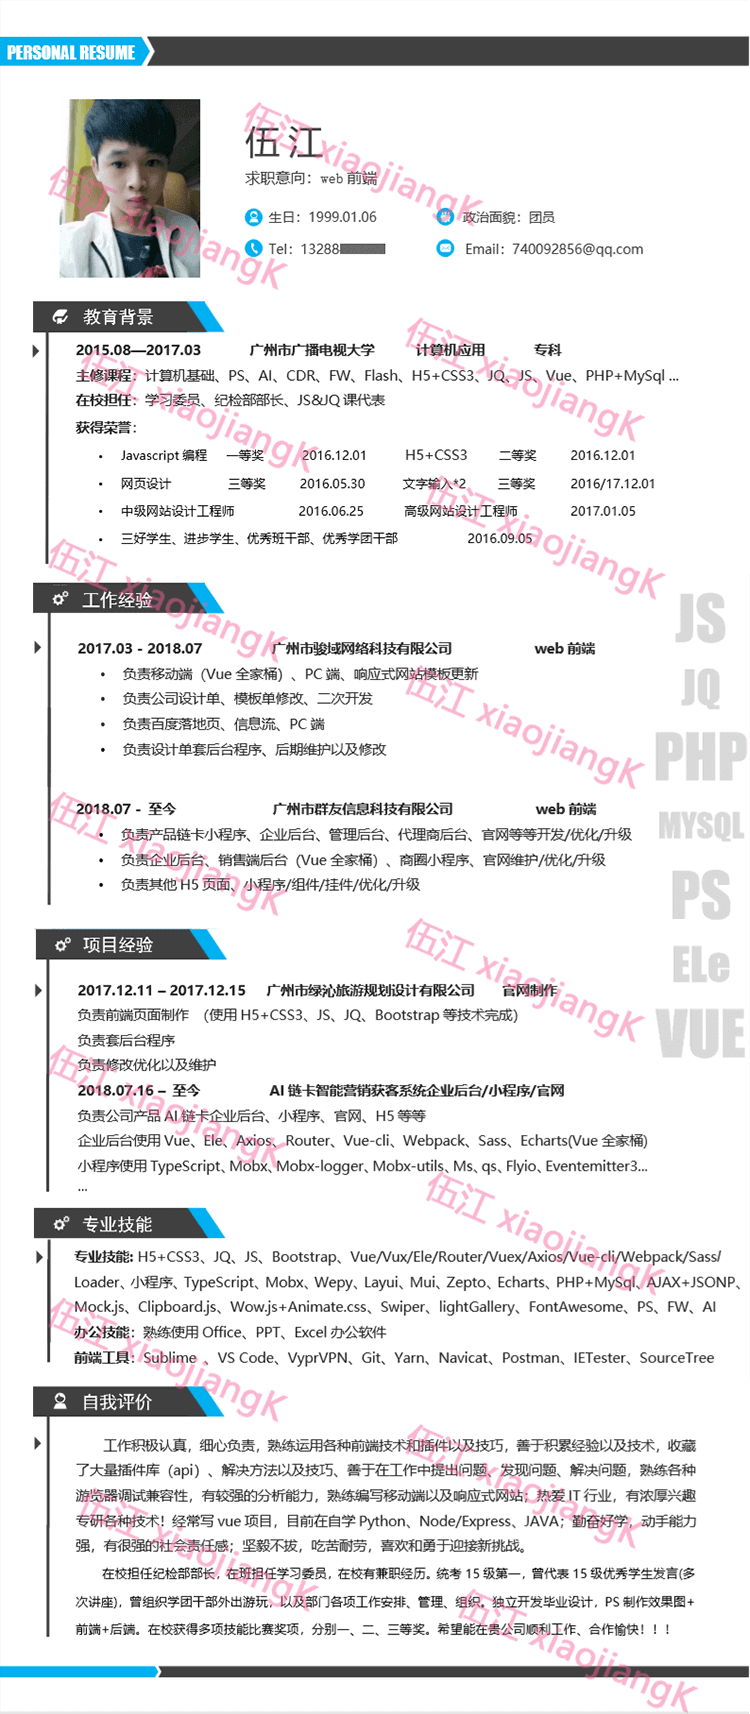
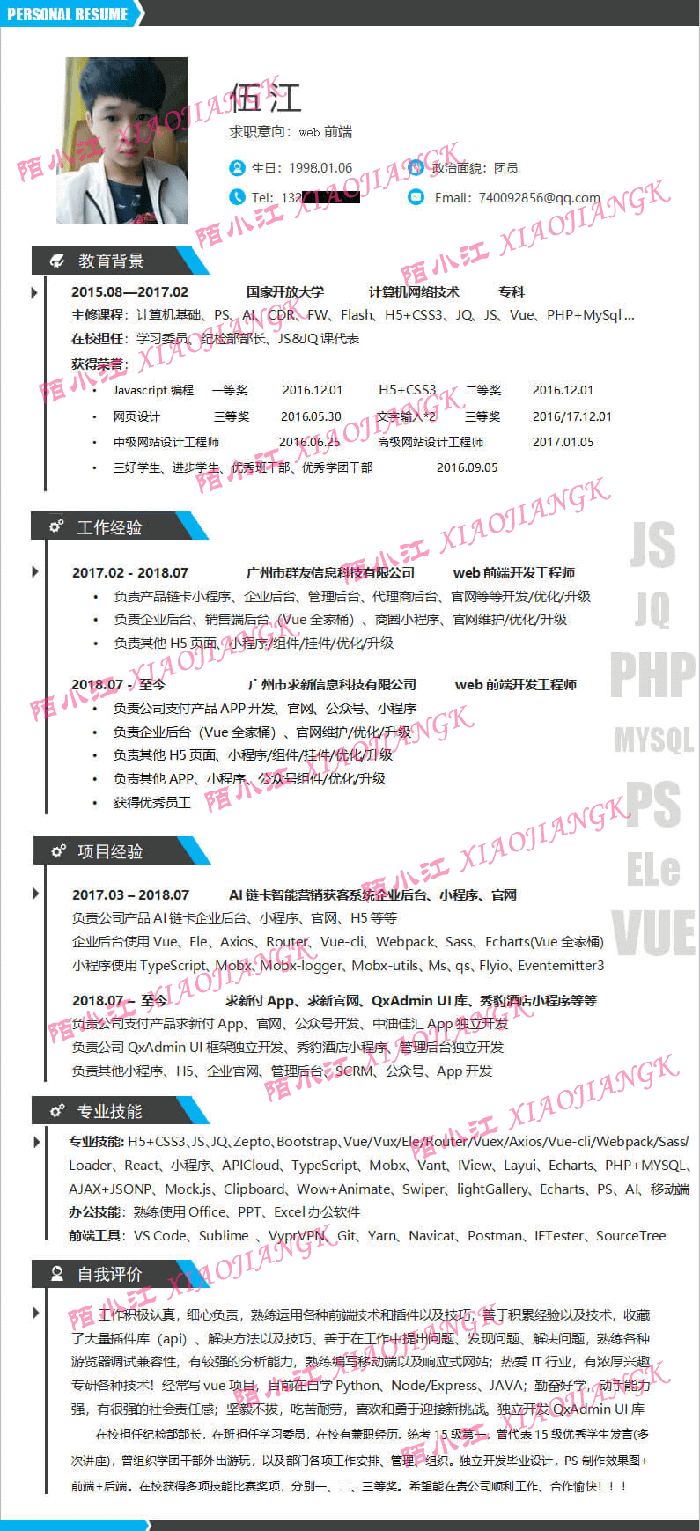
update cv

diff --git a/instance/project/cv/index.html b/instance/project/cv/index.html
@@ -80,7 +80,7 @@
                     </div>
                     <div class="about_list">
                         <div class="about_list_eg" id="about_en_age">age</div>
-                        <div class="about_list_cn" id="about_cn_age">年龄<p>19岁</p></div>
+                        <div class="about_list_cn" id="about_cn_age">年龄<p>21岁</p></div>
                     </div>
                     <div class="about_list">
                         <div class="about_list_eg" id="about_en_loc">location</div>
@@ -154,28 +154,12 @@
                         <div id="exp_list_content">
                             <div class="exp_list">
                                 <div class="exp_list_left">
-                                    <div id="exp_list_left1">
-                                        <dl>
-                                            <dt>广州市骏域网络科技有限公司</dt>
-                                            <dd class="exp_list_time">2017年3月~2018年7月</dd>
-                                            <dd>负责移动端（Vue全家桶）、PC端、响应式网站模板更新</dd>
-                                            <dd>负责公司设计单、模板单修改、二次开发</dd>
-                                            <dd>负责百度落地页、信息流、PC端</dd>
-                                            <dd>负责设计单套后台程序</dd>
-                                            <dd>后期维护以及修改</dd>
-                                            <dd>获得<a href="#" class="md-trigger" data-modal="modal-1">优秀实习生，内推资格</a></dd>
-                                        </dl>
-                                    </div>
-                                </div>
-                            </div>
-                            <div class="exp_list">
-                                <div class="exp_list_left">
                                     <div id="exp_list_left2">
                                         <dl>
                                             <dt>广州市群友信息科技有限公司</dt>
-                                            <dd class="exp_list_time">2018年7月~2019年3月</dd>
-                                            <dd>负责公司产品链卡小程序、企业后台、官网制作/优化/升级</dd>
-                                            <dd>负责企业后台（Vue全家桶）、官网维护/优化/升级</dd>
+                                            <dd class="exp_list_time">2017年2月~2018年7月</dd>
+                                            <dd>负责产品链卡小程序、企业后台、管理后台、代理商后台、官网等等开发/优化/升级</dd>
+                                            <dd>负责企业后台、销售端后台（Vue全家桶）、商圈小程序、官网维护/优化/升级</dd>
                                             <dd>负责其他H5页面、小程序/组件/挂件/优化/升级</dd>
                                             <dd>获得<a href="#" class="md-trigger" data-modal="modal-1">优秀员工</a></dd>
                                         </dl>
@@ -187,7 +171,7 @@
                                     <div id="exp_list_left2">
                                         <dl>
                                             <dt>广州市求新信息科技有限公司</dt>
-                                            <dd class="exp_list_time">2019年3月~至今</dd>
+                                            <dd class="exp_list_time">2018年7月~至今</dd>
                                             <dd>负责公司支付产品APP开发、官网、公众号、小程序</dd>
                                             <dd>负责企业后台（Vue全家桶）、官网维护/优化/升级</dd>
                                             <dd>负责其他H5页面、小程序/组件/挂件/优化/升级</dd>
@@ -205,9 +189,8 @@
                     </div>
                     <div id="exp_timeline" class="exp_scale">
                         <div>
-                            <a href="#" title="2017年3月~2018年7月"></a>
-                            <a href="#" title="2018年7月~2019年3月"></a>
-                            <a href="#" title="2019年3月~至今"></a>
+                            <a href="#" title="2017年2月~2018年7月"></a>
+                            <a href="#" title="2018年7月~至今"></a>
                         </div>
                     </div>
                 </div>

diff --git a/instance/project/cv/js/index.js b/instance/project/cv/js/index.js
@@ -202,7 +202,7 @@ $(".skill_icon").click(function () {
 });
 // 图片轮播
 $("#exp_list_slider").width($(".exp_list").width());
-$("#exp_list_content").width($(".exp_list").width() * 3);
+$("#exp_list_content").width($(".exp_list").width() * 2);
 $("#exp_list_slider_content").mouseenter(function () {
     $("#exp_list_to").stop(true, false).fadeTo(700, 1);
 }).mouseleave(function () {
@@ -227,7 +227,7 @@ $("#exp_list_toleft").click(function () {
 });
 $("#exp_list_toright").click(function () {
     if (!$("#exp_list_content").is(":animated")) {
-        if (page == 3) {
+        if (page == 2) {
             $("#exp_list_content").animate({left: "-=50"}, 200, function () {
                 $(this).animate({left: "+=50"}, 200);
             });

diff --git a/instance/project/cv/css/index.css b/instance/project/cv/css/index.css
@@ -852,11 +852,11 @@ img#home_photo2 {
     width: 30px;
     height: 30px;
     cursor: pointer;
-    margin-left: 100px;
+    margin-left: 165px;
 }
 
 #exp_timeline a:first-child{
-    margin-left: 50px;
+    margin-left: 80px;
 }
 
 .exp_timeline_title {

diff --git a/instance/project/resume/index.html b/instance/project/resume/index.html
@@ -22,7 +22,7 @@
     }
     .wrap{
       margin: 12px;
-      max-width: 800px;
+      max-width: 700px;
       user-select: none;
       text-align: center;
       box-shadow: 0 0 10px rgba(0, 0, 0, .2);
